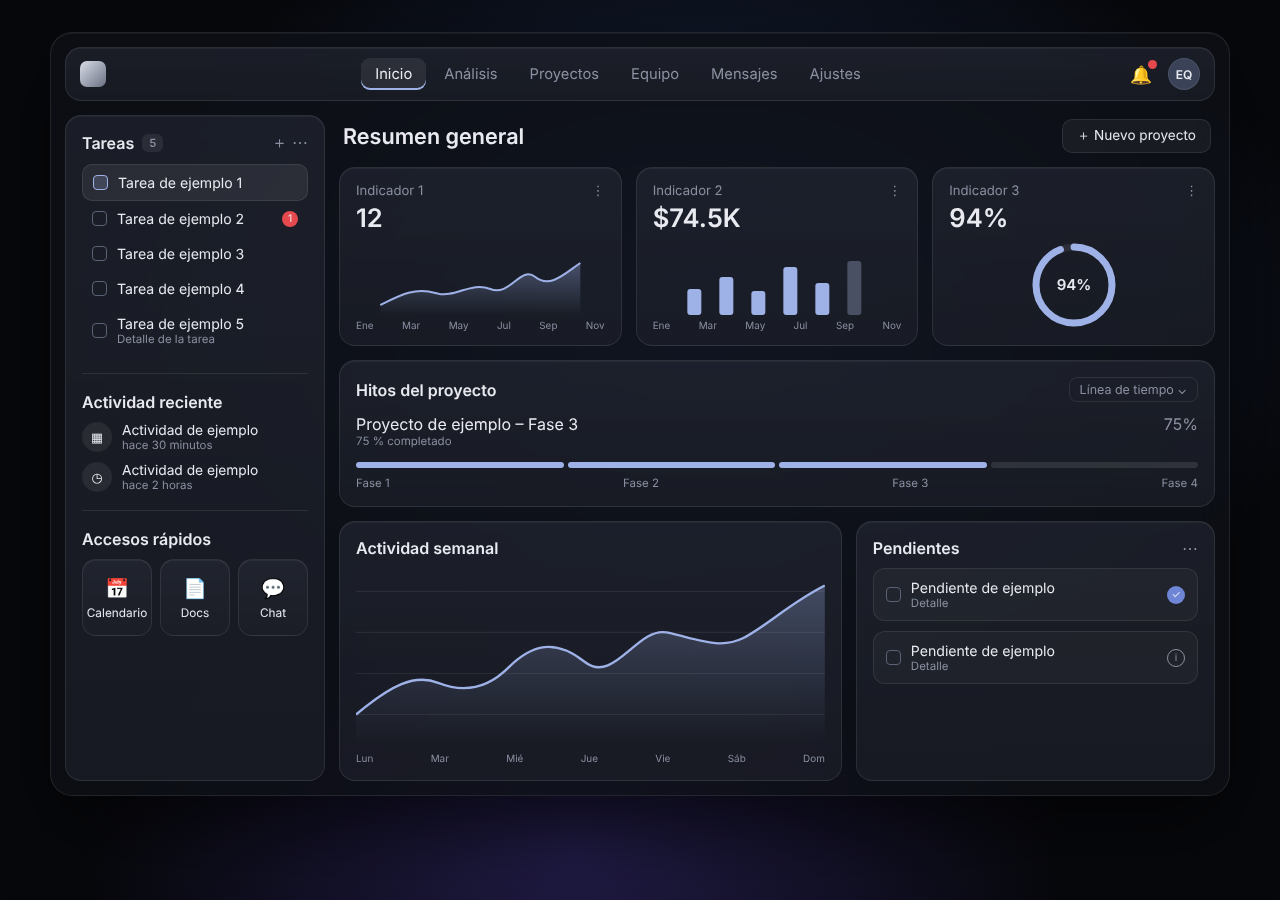
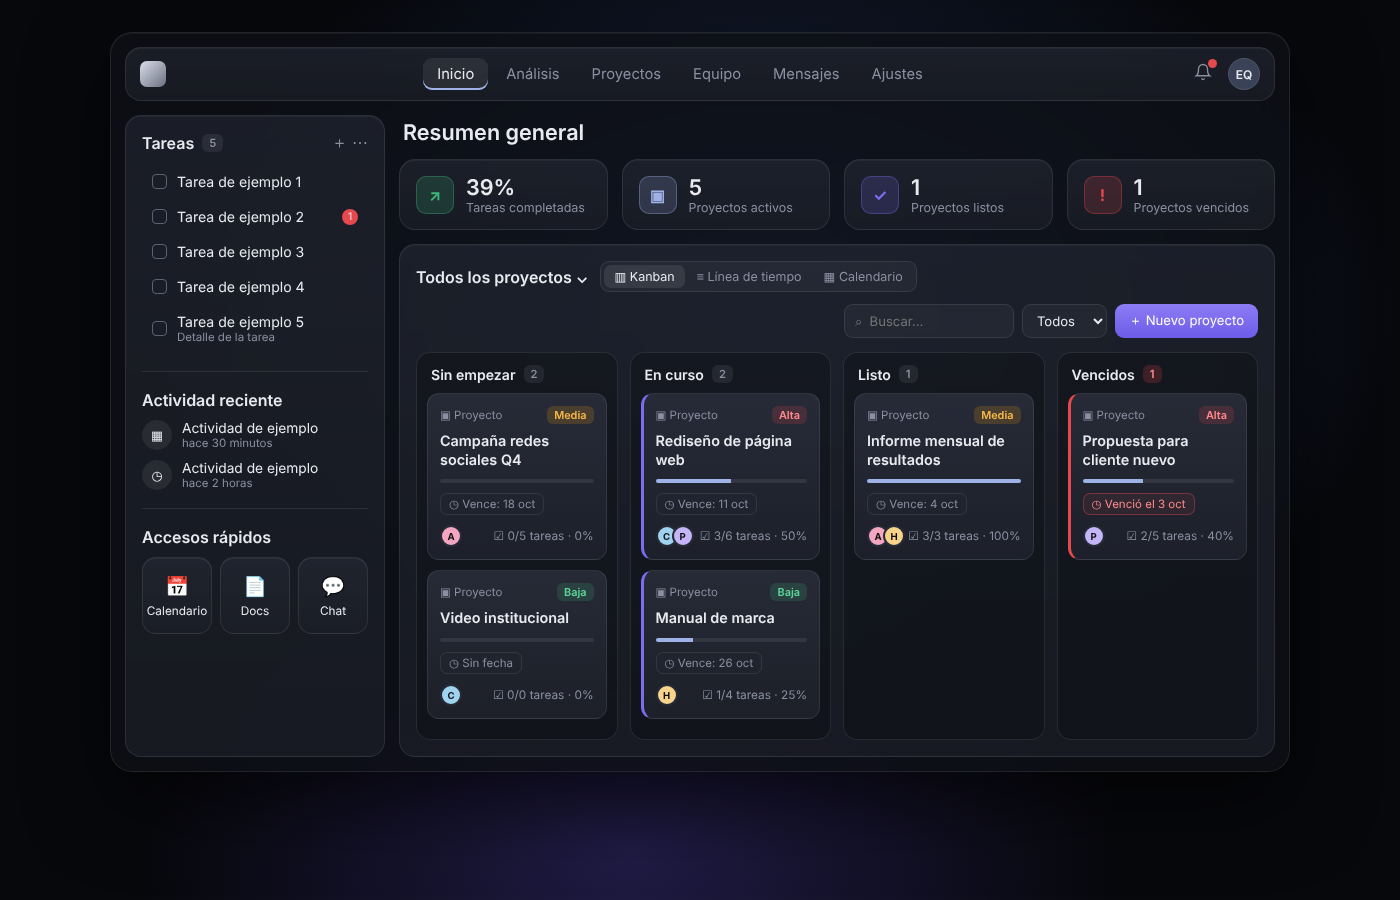
Panel: resumen general con indicadores y tablero Kanban de proyectos
Claude-Session: https://claude.ai/code/session_01L8QtHgV8HSYntBJ1ppQiSV

diff --git a/borradores/panel.html b/borradores/panel.html
@@ -87,6 +87,41 @@
     .rejilla, .inferior, .tarjetas { grid-template-columns: 1fr; }
     nav { display: none; }
   }
+
+  .kpis { display: grid; grid-template-columns: repeat(4, 1fr); gap: 14px; }
+  .kpi { display: flex; gap: 12px; align-items: center; padding: 14px 16px; }
+  .kpi-ico { width: 38px; height: 38px; border-radius: 10px; display: grid; place-items: center; color: var(--c);
+    background: color-mix(in srgb, var(--c) 18%, transparent); border: 1px solid color-mix(in srgb, var(--c) 35%, transparent); font-weight: 700; }
+  .kpi-num { font-size: 1.35rem; font-weight: 600; }
+  .kpi-txt { font-size: .78rem; color: var(--tenue); }
+  .tablero-barra { display: flex; flex-wrap: wrap; align-items: center; gap: 12px; margin-bottom: 14px; }
+  .vistas { display: flex; gap: 2px; background: rgba(255,255,255,.04); border: 1px solid var(--borde); border-radius: 9px; padding: 3px; }
+  .vista { font-size: .78rem; color: var(--tenue); padding: 4px 10px; border-radius: 7px; cursor: pointer; }
+  .vista.activa { background: rgba(255,255,255,.09); color: var(--texto); }
+  .acciones { margin-left: auto; display: flex; gap: 8px; flex-wrap: wrap; }
+  .buscar, .filtro { background: rgba(255,255,255,.04); border: 1px solid var(--borde); color: var(--texto); border-radius: 9px; padding: 7px 10px; font: inherit; font-size: .82rem; }
+  .buscar { width: 170px; } .filtro option { background: #1c1f28; }
+  .nuevo-btn { background: linear-gradient(180deg, #8d7cf5, #6c5ce7); color: #fff; border: 0; border-radius: 9px; padding: 7px 14px; font: inherit; font-size: .82rem; cursor: pointer; }
+  .tablero { display: grid; grid-template-columns: repeat(4, minmax(200px, 1fr)); gap: 12px; overflow-x: auto; }
+  .columna { background: rgba(0,0,0,.22); border: 1px solid var(--borde); border-radius: 14px; padding: 10px; min-height: 260px; transition: background .15s; }
+  .columna.encima { background: rgba(159,178,232,.08); border-color: var(--azul); }
+  .columna h4 { margin: 2px 4px 10px; font-size: .88rem; font-weight: 600; display: flex; gap: 8px; align-items: center; }
+  .columna h4 .chip.rojo { background: rgba(229,72,77,.2); color: #ff8a8e; }
+  .ficha { background: linear-gradient(180deg, rgba(48,52,66,.7), rgba(34,37,48,.7)); border: 1px solid var(--borde); border-radius: 12px; padding: 12px; margin-bottom: 10px; cursor: grab; font-size: .82rem; }
+  .ficha.borde-curso { border-left: 3px solid #7c6cf0; } .ficha.borde-vencido { border-left: 3px solid var(--rojo); }
+  .ficha:active { cursor: grabbing; }
+  .ficha-top { display: flex; justify-content: space-between; align-items: center; color: var(--tenue); font-size: .72rem; margin-bottom: 8px; }
+  .prio { font-size: .68rem; padding: 2px 7px; border-radius: 6px; font-weight: 600; }
+  .prio.alta { background: rgba(229,72,77,.18); color: #ff8a8e; } .prio.media { background: rgba(245,158,11,.18); color: #f5b84b; } .prio.baja { background: rgba(63,182,122,.18); color: #5fd49a; }
+  .ficha-nombre { font-weight: 600; font-size: .9rem; margin-bottom: 10px; line-height: 1.3; }
+  .barra-prog { height: 4px; border-radius: 4px; background: rgba(255,255,255,.08); margin-bottom: 10px; overflow: hidden; }
+  .barra-prog i { display: block; height: 100%; background: var(--azul); }
+  .fecha { display: inline-flex; gap: 6px; align-items: center; border: 1px solid var(--borde); border-radius: 7px; padding: 3px 8px; font-size: .72rem; color: var(--tenue); }
+  .fecha.vencida { color: #ff8a8e; border-color: rgba(229,72,77,.4); background: rgba(229,72,77,.08); }
+  .ficha-pie { display: flex; justify-content: space-between; align-items: center; margin-top: 10px; color: var(--tenue); font-size: .74rem; }
+  .avatares { display: flex; } .avatares span { width: 22px; height: 22px; border-radius: 50%; display: grid; place-items: center; font-size: .6rem; font-weight: 700; color: #111; margin-right: -6px; border: 2px solid #262a36; }
+  .vacia { color: var(--tenue); font-size: .78rem; text-align: center; padding: 20px 0; }
+  @media (max-width: 860px) { .kpis { grid-template-columns: repeat(2, 1fr); } .tablero { grid-template-columns: repeat(4, 240px); } .acciones { margin-left: 0; } }
 </style>
 </head>
 <body>
@@ -130,71 +165,27 @@
 
     <!-- Contenido principal -->
     <main class="principal">
-      <div class="encabezado"><h2>Resumen general</h2><span class="boton">＋ Nuevo proyecto</span></div>
+      <div class="encabezado"><h2>Resumen general</h2></div>
 
-      <div class="tarjetas">
-        <div class="tarjeta vidrio">
-          <div class="tit">Indicador 1 <span>⋮</span></div>
-          <div class="cifra">12</div>
-          <svg viewBox="0 0 200 60" height="60">
-            <defs><linearGradient id="g1" x1="0" x2="0" y1="0" y2="1"><stop offset="0" stop-color="#9fb2e8" stop-opacity=".35"/><stop offset="1" stop-color="#9fb2e8" stop-opacity="0"/></linearGradient></defs>
-            <path d="M0 50 C20 40 35 32 55 38 S90 26 110 34 S140 10 155 22 S185 18 200 8 V60 H0Z" fill="url(#g1)"/>
-            <path d="M0 50 C20 40 35 32 55 38 S90 26 110 34 S140 10 155 22 S185 18 200 8" fill="none" stroke="#9fb2e8" stroke-width="2"/>
-          </svg>
-          <div class="ejes"><span>Ene</span><span>Mar</span><span>May</span><span>Jul</span><span>Sep</span><span>Nov</span></div>
-        </div>
-        <div class="tarjeta vidrio">
-          <div class="tit">Indicador 2 <span>⋮</span></div>
-          <div class="cifra">$74.5K</div>
-          <svg viewBox="0 0 200 60" height="60">
-            <g fill="#9fb2e8">
-              <rect x="10" y="34" width="14" height="26" rx="3"/><rect x="42" y="22" width="14" height="38" rx="3"/>
-              <rect x="74" y="36" width="14" height="24" rx="3"/><rect x="106" y="12" width="14" height="48" rx="3"/>
-              <rect x="138" y="28" width="14" height="32" rx="3"/><rect x="170" y="6" width="14" height="54" rx="3" fill="#4a5064"/>
-            </g>
-          </svg>
-          <div class="ejes"><span>Ene</span><span>Mar</span><span>May</span><span>Jul</span><span>Sep</span><span>Nov</span></div>
-        </div>
-        <div class="tarjeta vidrio">
-          <div class="tit">Indicador 3 <span>⋮</span></div>
-          <div class="cifra">94%</div>
-          <div class="anillo">
-            <svg width="92" height="92" viewBox="0 0 92 92">
-              <circle cx="46" cy="46" r="38" fill="none" stroke="rgba(255,255,255,.08)" stroke-width="7"/>
-              <circle cx="46" cy="46" r="38" fill="none" stroke="#9fb2e8" stroke-width="7" stroke-linecap="round"
-                stroke-dasharray="238.8" stroke-dashoffset="14.3" transform="rotate(-90 46 46)"/>
-              <text x="46" y="51" text-anchor="middle" fill="#e8eaf0" font-size="15" font-weight="600">94%</text>
-            </svg>
+      <div class="kpis">
+        <div class="kpi vidrio"><div class="kpi-ico" style="--c:#3fb67a">↗</div><div><div class="kpi-num" id="kTasa">0%</div><div class="kpi-txt">Tareas completadas</div></div></div>
+        <div class="kpi vidrio"><div class="kpi-ico" style="--c:#9fb2e8">▣</div><div><div class="kpi-num" id="kActivos">0</div><div class="kpi-txt">Proyectos activos</div></div></div>
+        <div class="kpi vidrio"><div class="kpi-ico" style="--c:#7c6cf0">✓</div><div><div class="kpi-num" id="kListos">0</div><div class="kpi-txt">Proyectos listos</div></div></div>
+        <div class="kpi vidrio"><div class="kpi-ico" style="--c:#e5484d">!</div><div><div class="kpi-num" id="kVencidos">0</div><div class="kpi-txt">Proyectos vencidos</div></div></div>
+      </div>
+
+      <section class="seccion vidrio tablero-caja">
+        <div class="tablero-barra">
+          <h3>Todos los proyectos ⌄</h3>
+          <div class="vistas"><span class="vista activa">▥ Kanban</span><span class="vista">≡ Línea de tiempo</span><span class="vista">▦ Calendario</span></div>
+          <div class="acciones">
+            <input id="buscar" class="buscar" placeholder="⌕  Buscar…" />
+            <select id="filtro" class="filtro"><option value="">Todos</option></select>
+            <button class="nuevo-btn" id="nuevoBtn">＋ Nuevo proyecto</button>
           </div>
         </div>
-      </div>
-
-      <section class="seccion vidrio">
-        <div class="tit" style="margin:0"><h3 style="color:var(--texto)">Hitos del proyecto</h3><span class="selector">Línea de tiempo ⌄</span></div>
-        <div style="display:flex;justify-content:space-between;margin-top:12px">
-          <div>Proyecto de ejemplo – Fase 3<span class="sub">75 % completado</span></div><div style="color:var(--tenue)">75%</div>
-        </div>
-        <div class="fases"><i class="ok"></i><i class="ok"></i><i class="ok"></i><i></i></div>
-        <div class="fases-nombres"><span>Fase 1</span><span>Fase 2</span><span>Fase 3</span><span>Fase 4</span></div>
+        <div class="tablero" id="tablero"></div>
       </section>
-
-      <div class="inferior">
-        <section class="seccion vidrio">
-          <h3>Actividad semanal</h3>
-          <svg viewBox="0 0 400 150" width="100%" style="margin-top:10px">
-            <g stroke="rgba(255,255,255,.07)"><line x1="0" x2="400" y1="20" y2="20"/><line x1="0" x2="400" y1="55" y2="55"/><line x1="0" x2="400" y1="90" y2="90"/><line x1="0" x2="400" y1="125" y2="125"/></g>
-            <defs><linearGradient id="g2" x1="0" x2="0" y1="0" y2="1"><stop offset="0" stop-color="#9fb2e8" stop-opacity=".3"/><stop offset="1" stop-color="#9fb2e8" stop-opacity="0"/></linearGradient></defs>
-            <path d="M0 125 C30 100 50 90 70 98 S110 105 130 85 S170 60 195 80 S240 50 265 55 S310 70 330 60 S370 30 400 15 V150 H0Z" fill="url(#g2)"/>
-            <path d="M0 125 C30 100 50 90 70 98 S110 105 130 85 S170 60 195 80 S240 50 265 55 S310 70 330 60 S370 30 400 15" fill="none" stroke="#9fb2e8" stroke-width="2"/>
-          </svg>
-          <div class="ejes"><span>Lun</span><span>Mar</span><span>Mié</span><span>Jue</span><span>Vie</span><span>Sáb</span><span>Dom</span></div>
-        </section>
-        <section class="seccion vidrio">
-          <div class="tit" style="margin:0"><h3 style="color:var(--texto)">Pendientes</h3><span>⋯</span></div>
-          <div class="pendiente"><div class="caja"></div><div>Pendiente de ejemplo<span class="sub">Detalle</span></div><div class="check">✓</div></div>
-          <div class="pendiente"><div class="caja"></div><div>Pendiente de ejemplo<span class="sub">Detalle</span></div><div class="info">i</div></div>
-        </section>
-      </div>
     </main>
   </div>
 </div>
@@ -210,5 +201,87 @@
   .pendiente.sel .caja, .item.sel .caja { background: var(--azul); border-color: var(--azul); }
   nav a { cursor: pointer; }
 </style>
+<script>
+  // ===== Datos de ejemplo (luego vendrán de Supabase) =====
+  const HOY = new Date().toISOString().slice(0, 10);
+  const COLORES = { Ariana: "#f4a6c1", Carlos: "#9fd3f0", Pierina: "#c3b5f7", Hilary: "#f7d38b" };
+  const sumar = (d) => { const f = new Date(); f.setDate(f.getDate() + d); return f.toISOString().slice(0, 10); };
+  let proyectos = [
+    { id: 1, nombre: "Campaña redes sociales Q4", estado: "sin_empezar", prioridad: "media", encargados: ["Ariana"], fecha: sumar(12), hechas: 0, total: 5 },
+    { id: 2, nombre: "Rediseño de página web", estado: "en_curso", prioridad: "alta", encargados: ["Carlos", "Pierina"], fecha: sumar(5), hechas: 3, total: 6 },
+    { id: 3, nombre: "Manual de marca", estado: "en_curso", prioridad: "baja", encargados: ["Hilary"], fecha: sumar(20), hechas: 1, total: 4 },
+    { id: 4, nombre: "Informe mensual de resultados", estado: "listo", prioridad: "media", encargados: ["Ariana", "Hilary"], fecha: sumar(-2), hechas: 3, total: 3 },
+    { id: 5, nombre: "Propuesta para cliente nuevo", estado: "en_curso", prioridad: "alta", encargados: ["Pierina"], fecha: sumar(-3), hechas: 2, total: 5 },
+    { id: 6, nombre: "Video institucional", estado: "sin_empezar", prioridad: "baja", encargados: ["Carlos"], fecha: "", hechas: 0, total: 0 },
+  ];
+  const COLUMNAS = [
+    { id: "sin_empezar", titulo: "Sin empezar" },
+    { id: "en_curso", titulo: "En curso" },
+    { id: "listo", titulo: "Listo" },
+    { id: "vencido", titulo: "Vencidos" },
+  ];
+  const vencido = (p) => p.fecha && p.fecha < HOY && p.estado !== "listo";
+  const columnaDe = (p) => (vencido(p) ? "vencido" : p.estado);
+  const fmt = (f) => new Date(f + "T00:00").toLocaleDateString("es", { day: "numeric", month: "short" });
+  const filtroSel = document.getElementById("filtro");
+  Object.keys(COLORES).forEach((n) => filtroSel.append(new Option(n, n)));
+
+  function pintar() {
+    const q = document.getElementById("buscar").value.toLowerCase();
+    const quien = filtroSel.value;
+    const visibles = proyectos.filter((p) => p.nombre.toLowerCase().includes(q) && (!quien || p.encargados.includes(quien)));
+
+    // Indicadores
+    const total = proyectos.reduce((a, p) => a + p.total, 0), hechas = proyectos.reduce((a, p) => a + p.hechas, 0);
+    kTasa.textContent = (total ? Math.round((hechas / total) * 100) : 0) + "%";
+    kActivos.textContent = proyectos.filter((p) => p.estado !== "listo").length;
+    kListos.textContent = proyectos.filter((p) => p.estado === "listo").length;
+    kVencidos.textContent = proyectos.filter(vencido).length;
+
+    const tablero = document.getElementById("tablero");
+    tablero.innerHTML = "";
+    for (const c of COLUMNAS) {
+      const lista = visibles.filter((p) => columnaDe(p) === c.id);
+      const col = document.createElement("div");
+      col.className = "columna";
+      col.innerHTML = `<h4>${c.titulo} <span class="chip ${c.id === "vencido" ? "rojo" : ""}">${lista.length}</span></h4>`;
+      if (!lista.length) col.innerHTML += `<div class="vacia">Arrastra un proyecto aquí</div>`;
+      for (const p of lista) {
+        const pct = p.total ? Math.round((p.hechas / p.total) * 100) : 0;
+        const f = document.createElement("div");
+        f.className = "ficha" + (c.id === "en_curso" ? " borde-curso" : c.id === "vencido" ? " borde-vencido" : "");
+        f.draggable = true;
+        f.innerHTML = `
+          <div class="ficha-top"><span>▣ Proyecto</span><span class="prio ${p.prioridad}">${p.prioridad[0].toUpperCase() + p.prioridad.slice(1)}</span></div>
+          <div class="ficha-nombre">${p.nombre}</div>
+          <div class="barra-prog"><i style="width:${pct}%"></i></div>
+          ${p.fecha ? `<span class="fecha ${vencido(p) ? "vencida" : ""}">◷ ${vencido(p) ? "Venció el" : "Vence:"} ${fmt(p.fecha)}</span>` : `<span class="fecha">◷ Sin fecha</span>`}
+          <div class="ficha-pie">
+            <div class="avatares">${p.encargados.map((n) => `<span title="${n}" style="background:${COLORES[n]}">${n[0]}</span>`).join("")}</div>
+            <span>☑ ${p.hechas}/${p.total} tareas · ${pct}%</span>
+          </div>`;
+        f.ondragstart = (e) => e.dataTransfer.setData("id", p.id);
+        col.append(f);
+      }
+      col.ondragover = (e) => { e.preventDefault(); col.classList.add("encima"); };
+      col.ondragleave = () => col.classList.remove("encima");
+      col.ondrop = (e) => {
+        const p = proyectos.find((x) => x.id == e.dataTransfer.getData("id"));
+        if (c.id === "vencido") { pintar(); return; } // los vencidos se calculan por fecha
+        p.estado = c.id;
+        if (c.id === "listo") p.hechas = p.total;
+        pintar();
+      };
+      tablero.append(col);
+    }
+  }
+  document.getElementById("buscar").oninput = pintar;
+  filtroSel.onchange = pintar;
+  document.getElementById("nuevoBtn").onclick = () => {
+    const nombre = prompt("Nombre del nuevo proyecto:");
+    if (nombre) { proyectos.push({ id: Date.now(), nombre, estado: "sin_empezar", prioridad: "media", encargados: [], fecha: "", hechas: 0, total: 0 }); pintar(); }
+  };
+  pintar();
+</script>
 </body>
 </html>
